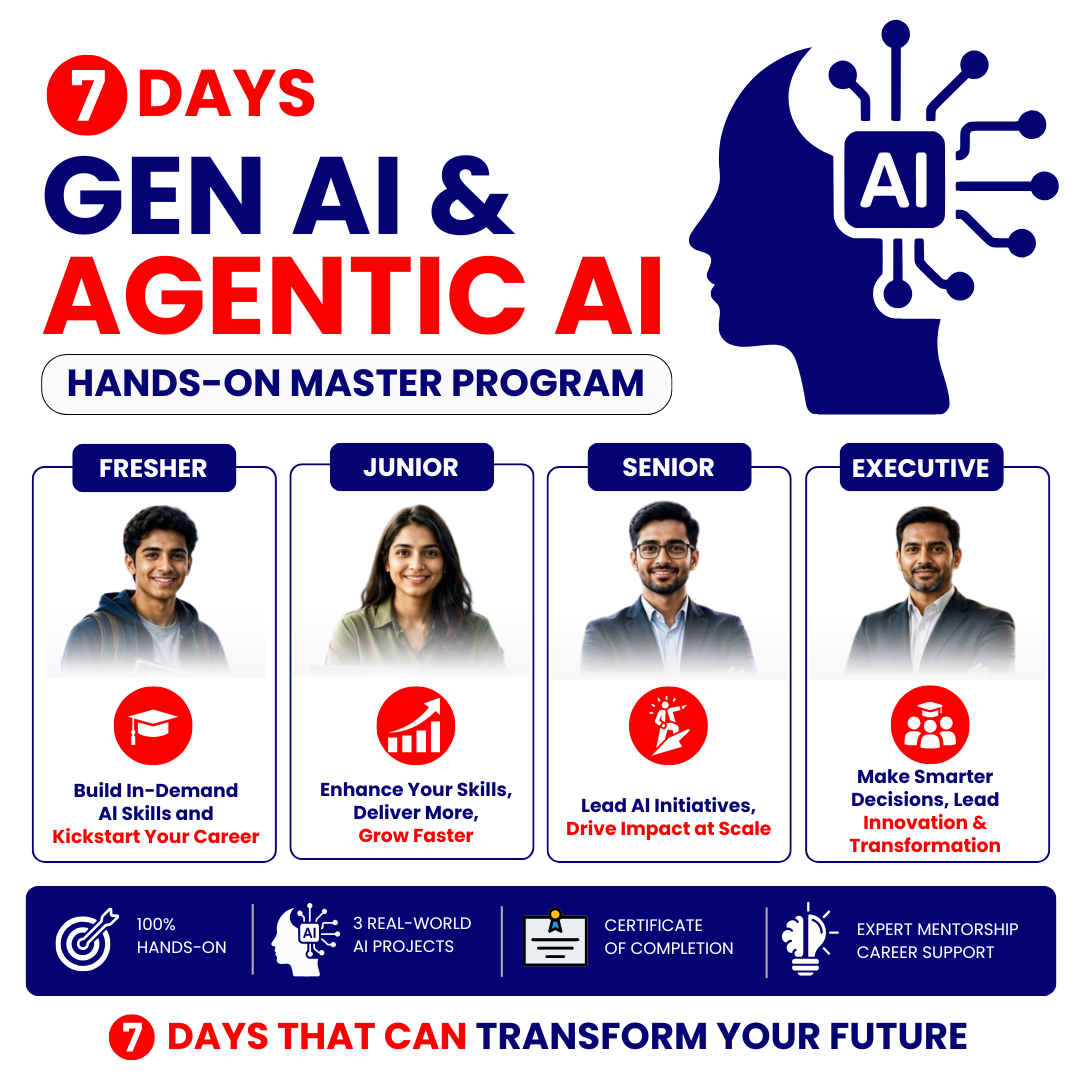
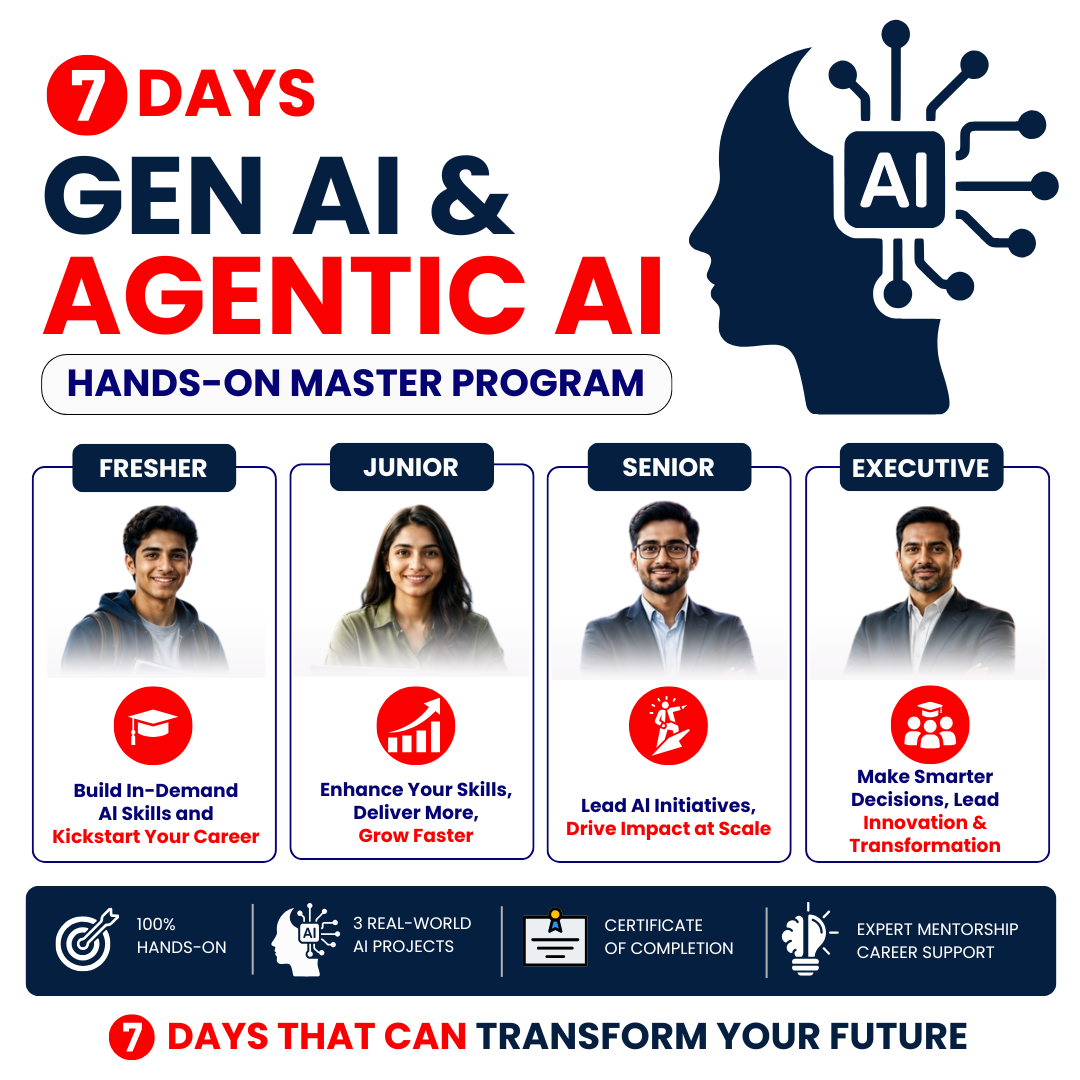
ui update

diff --git a/src/overrides.css b/src/overrides.css
@@ -3568,3 +3568,161 @@ button {
     height: auto;
   }
 }
+
+/* ==========================================================================
+   Global orange interaction system
+   Keeps component geometry and motion intact while standardizing brand color.
+   #d64218 provides AA contrast (4.51:1) against white text.
+   ========================================================================== */
+:root {
+  --brand-orange-button: #d64218;
+  --brand-orange-button-hover: #c83d12;
+  --brand-orange-button-active: #b9340f;
+  --brand-orange-button-focus: rgba(239, 83, 35, 0.42);
+  --brand-orange-button-shadow: rgba(214, 66, 24, 0.28);
+}
+
+/* Primary CTAs, form actions, card actions and selected interactive tabs. */
+:is(
+  .btn-primary,
+  .btn-enroll-header,
+  .mobile-enroll-btn,
+  .btn-header-brochure,
+  .btn-enroll-main,
+  .course-stats-brochure-btn,
+  .btn-enroll-bottom,
+  .btn-submit-enroll,
+  .view-details-btn,
+  .modal-action-btn.primary,
+  .aau-card-btn,
+  .btn-view-all-industries,
+  .btn-reviews-primary,
+  .btn-watch-video,
+  .btn-go-lms,
+  .read-more-blog-btn,
+  .benefits-tab-switcher .tab-btn.active,
+  .roadmap-btn.active,
+  .faq-tab-btn.active
+) {
+  background: var(--brand-orange-button) !important;
+  border-color: var(--brand-orange-button) !important;
+  color: #ffffff !important;
+}
+
+:is(
+  .btn-primary,
+  .btn-enroll-header,
+  .mobile-enroll-btn,
+  .btn-header-brochure,
+  .btn-enroll-main,
+  .course-stats-brochure-btn,
+  .btn-enroll-bottom,
+  .btn-submit-enroll,
+  .view-details-btn,
+  .modal-action-btn.primary,
+  .aau-card-btn,
+  .btn-view-all-industries,
+  .btn-reviews-primary,
+  .btn-watch-video,
+  .btn-go-lms,
+  .read-more-blog-btn,
+  .benefits-tab-switcher .tab-btn.active,
+  .roadmap-btn.active,
+  .faq-tab-btn.active
+):not(:disabled):hover {
+  background: var(--brand-orange-button-hover) !important;
+  border-color: var(--brand-orange-button-hover) !important;
+  color: #ffffff !important;
+}
+
+:is(
+  .btn-primary,
+  .btn-enroll-header,
+  .mobile-enroll-btn,
+  .btn-header-brochure,
+  .btn-enroll-main,
+  .course-stats-brochure-btn,
+  .btn-enroll-bottom,
+  .btn-submit-enroll,
+  .view-details-btn,
+  .modal-action-btn.primary,
+  .aau-card-btn,
+  .btn-view-all-industries,
+  .btn-reviews-primary,
+  .btn-watch-video,
+  .btn-go-lms,
+  .read-more-blog-btn,
+  .benefits-tab-switcher .tab-btn.active,
+  .roadmap-btn.active,
+  .faq-tab-btn.active
+):not(:disabled):active {
+  background: var(--brand-orange-button-active) !important;
+  border-color: var(--brand-orange-button-active) !important;
+  color: #ffffff !important;
+}
+
+/* Navigation selection and hover states shown in the desktop/mobile header. */
+.site-header .nav-item > a:hover,
+.site-header .nav-item > a.active,
+.site-header .nav-item > a.open,
+.site-header .dropdown-item-link:hover,
+.mobile-courses-container .dropdown-trigger:hover,
+.mobile-courses-container .dropdown-trigger.open {
+  background-color: var(--brand-orange-button) !important;
+  color: #ffffff !important;
+}
+
+.site-header .nav-item > a.active:hover,
+.site-header .nav-item > a.open:hover,
+.site-header .dropdown-item-link:hover,
+.mobile-courses-container .dropdown-trigger.open:hover {
+  background-color: var(--brand-orange-button-hover) !important;
+}
+
+/* Expandable controls and image navigation use the same orange state palette. */
+.accordion-trigger:hover,
+.accordion-item.active .accordion-trigger,
+.faq-tab-btn:hover,
+.slideshow-nav-btn:hover,
+.promo-play-btn {
+  background-color: var(--brand-orange-button) !important;
+  background: var(--brand-orange-button) !important;
+  color: #ffffff !important;
+}
+
+.accordion-item.active .accordion-trigger:hover,
+.faq-tab-btn.active:hover,
+.slideshow-nav-btn:active,
+.promo-play-btn:hover {
+  background-color: var(--brand-orange-button-hover) !important;
+  background: var(--brand-orange-button-hover) !important;
+}
+
+.promo-play-btn:active {
+  background-color: var(--brand-orange-button-active) !important;
+  background: var(--brand-orange-button-active) !important;
+}
+
+.promo-play-btn .pulse-ring {
+  border-color: var(--brand-orange-button) !important;
+}
+
+/* Inactive segmented controls remain secondary, with orange interaction cues. */
+.benefits-tab-switcher .tab-btn:not(.active):hover,
+.roadmap-btn:not(.active):hover,
+.side-slider-arrow:hover {
+  border-color: var(--brand-orange-button) !important;
+  color: var(--brand-orange-button) !important;
+}
+
+/* Preserve each control's focus geometry while applying the brand focus color. */
+:is(
+  button,
+  [role='button'],
+  .btn,
+  .btn-go-lms,
+  .site-header .nav-item > a,
+  .site-header .dropdown-item-link
+):focus-visible {
+  outline-color: var(--brand-orange-button-focus) !important;
+}

diff --git a/src/components/Footer.tsx b/src/components/Footer.tsx
@@ -43,7 +43,7 @@ export const Footer: React.FC = () => {
                     </svg>
                   </div>
                   <p className="info-text">
-                    #52, 2nd Floor:<br />
+                    #52, 3rd Floor:<br />
                     Malleshpalya Maruthinagar Bengaluru.<br />
                     Bangalore 560075<br />
                     India

diff --git a/src/App.tsx b/src/App.tsx
@@ -28,6 +28,8 @@ const heroPosterModules = import.meta.glob('/public/hero-stories/*.{png,jpg,jpeg
 });
 
 const allowedHeroPosterPaths = [
+  '/public/hero-stories/fde-student.jpg',
+  '/public/hero-stories/fde-professional.png',
   '/public/hero-stories/poster-8.png',
   '/public/hero-stories/6th.jpeg',
   '/public/hero-stories/career-gap.png',
